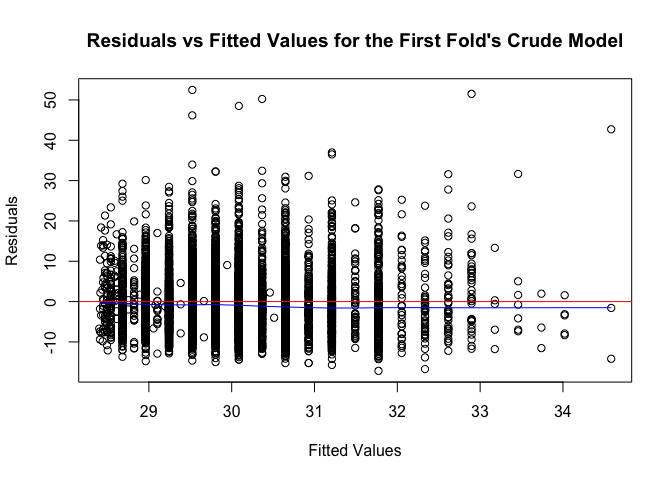
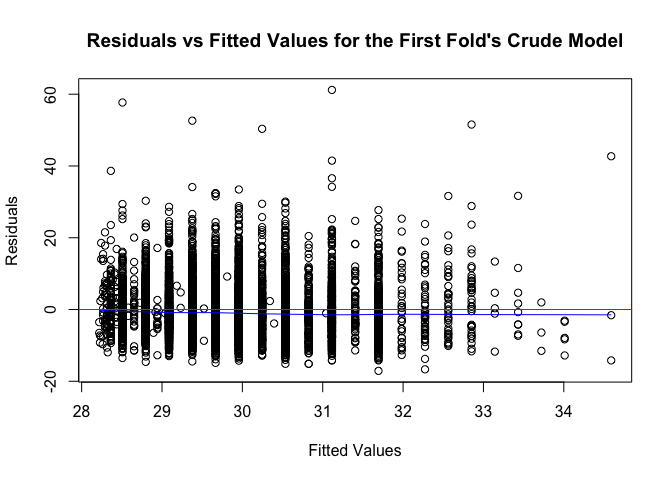
All models updated

diff --git a/p8105-Final-model-analysis.md b/p8105-Final-model-analysis.md
@@ -102,6 +102,14 @@ cv_results =
     rmse_fast_adjusted = map2_dbl(model_fast_adjusted, test, \(mod, df) rmse(mod, df)),
     rmse_fast_inter = map2_dbl(model_fast_inter, test, \(mod, df) rmse(mod, df))
   )
+cv_results =
+  cv_df |> 
+  mutate(
+    model_frozen = map(train, \(df) lm(bmi ~ freq_frozen*education + freq_frozen*income_to_poverty + freq_frozen + age + gender + marital_status + race + education + income_to_poverty, data = df))
+  ) |> 
+  mutate(
+    rmse_frozen = map2_dbl(model_frozen, test, \(mod, df) rmse(mod, df))
+  )
 ```
 
 # plot and compare the three models
@@ -119,12 +127,10 @@ cv_results |>
   summarize(m_rmse = mean(rmse))
 ```
 
-    ## # A tibble: 3 × 2
-    ##   model_type    m_rmse
-    ##   <chr>          <dbl>
-    ## 1 fast_adjusted   11.1
-    ## 2 fast_crude      14.6
-    ## 3 fast_inter      12.2
+    ## # A tibble: 1 × 2
+    ##   model_type m_rmse
+    ##   <chr>       <dbl>
+    ## 1 frozen       9.82
 
 ``` r
 cv_results |> 
@@ -221,9 +227,9 @@ cv_results_sedentary |>
     ## # A tibble: 3 × 2
     ##   model_type m_rmse
     ##   <chr>       <dbl>
-    ## 1 adjusted     7.65
-    ## 2 crude        7.60
-    ## 3 inter        7.65
+    ## 1 adjusted     7.64
+    ## 2 crude        7.59
+    ## 3 inter        7.64
 
 In the context of these models, a lower RMSE indicates a more accurate
 prediction of BMI from the predictors used in the model.
@@ -265,19 +271,19 @@ print(summary_crude_example)
     ## 
     ## Residuals:
     ##     Min      1Q  Median      3Q     Max 
-    ## -17.172  -5.244  -1.281   3.840  52.476 
+    ## -17.094  -5.135  -1.277   3.813  61.185 
     ## 
     ## Coefficients:
     ##                     Estimate Std. Error t value Pr(>|t|)    
-    ## (Intercept)        2.840e+01  1.898e-01 149.600   <2e-16 ***
-    ## sedentary_activity 4.684e-03  4.802e-04   9.754   <2e-16 ***
+    ## (Intercept)        2.822e+01  1.888e-01  149.44   <2e-16 ***
+    ## sedentary_activity 4.827e-03  4.783e-04   10.09   <2e-16 ***
     ## ---
     ## Signif. codes:  0 '***' 0.001 '**' 0.01 '*' 0.05 '.' 0.1 ' ' 1
     ## 
-    ## Residual standard error: 7.57 on 5990 degrees of freedom
-    ##   (3118 observations deleted due to missingness)
-    ## Multiple R-squared:  0.01563,    Adjusted R-squared:  0.01547 
-    ## F-statistic: 95.14 on 1 and 5990 DF,  p-value: < 2.2e-16
+    ## Residual standard error: 7.522 on 5966 degrees of freedom
+    ##   (3142 observations deleted due to missingness)
+    ## Multiple R-squared:  0.01678,    Adjusted R-squared:  0.01662 
+    ## F-statistic: 101.8 on 1 and 5966 DF,  p-value: < 2.2e-16
 
 ## Interpretation of the crude model (activity)
 
